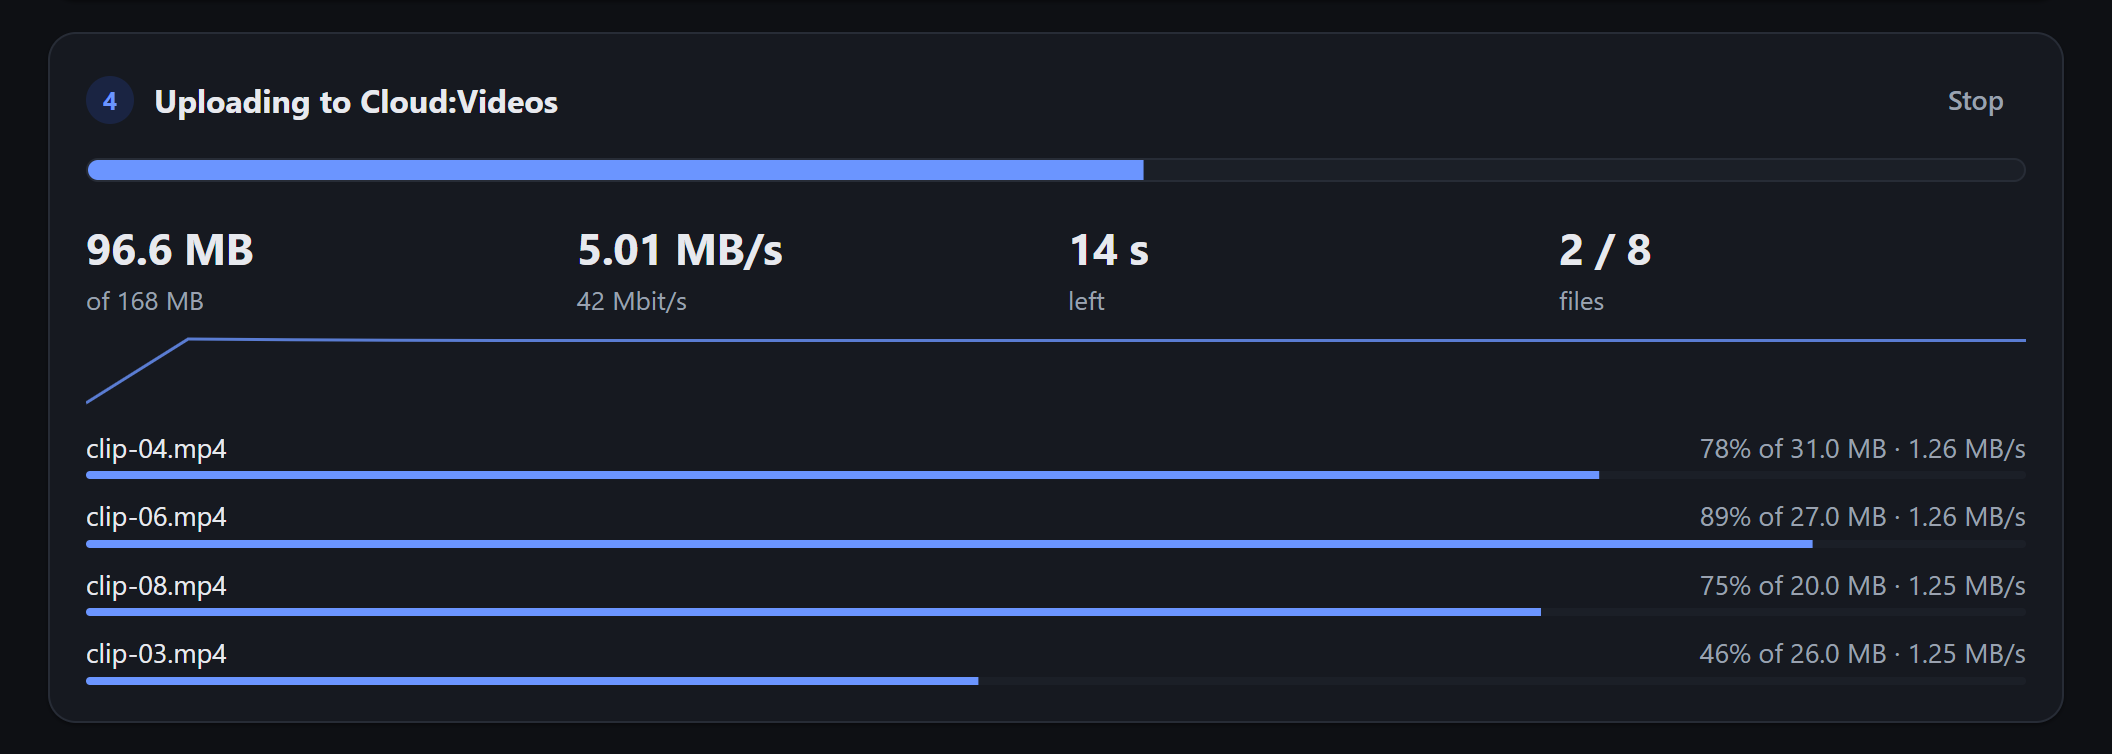
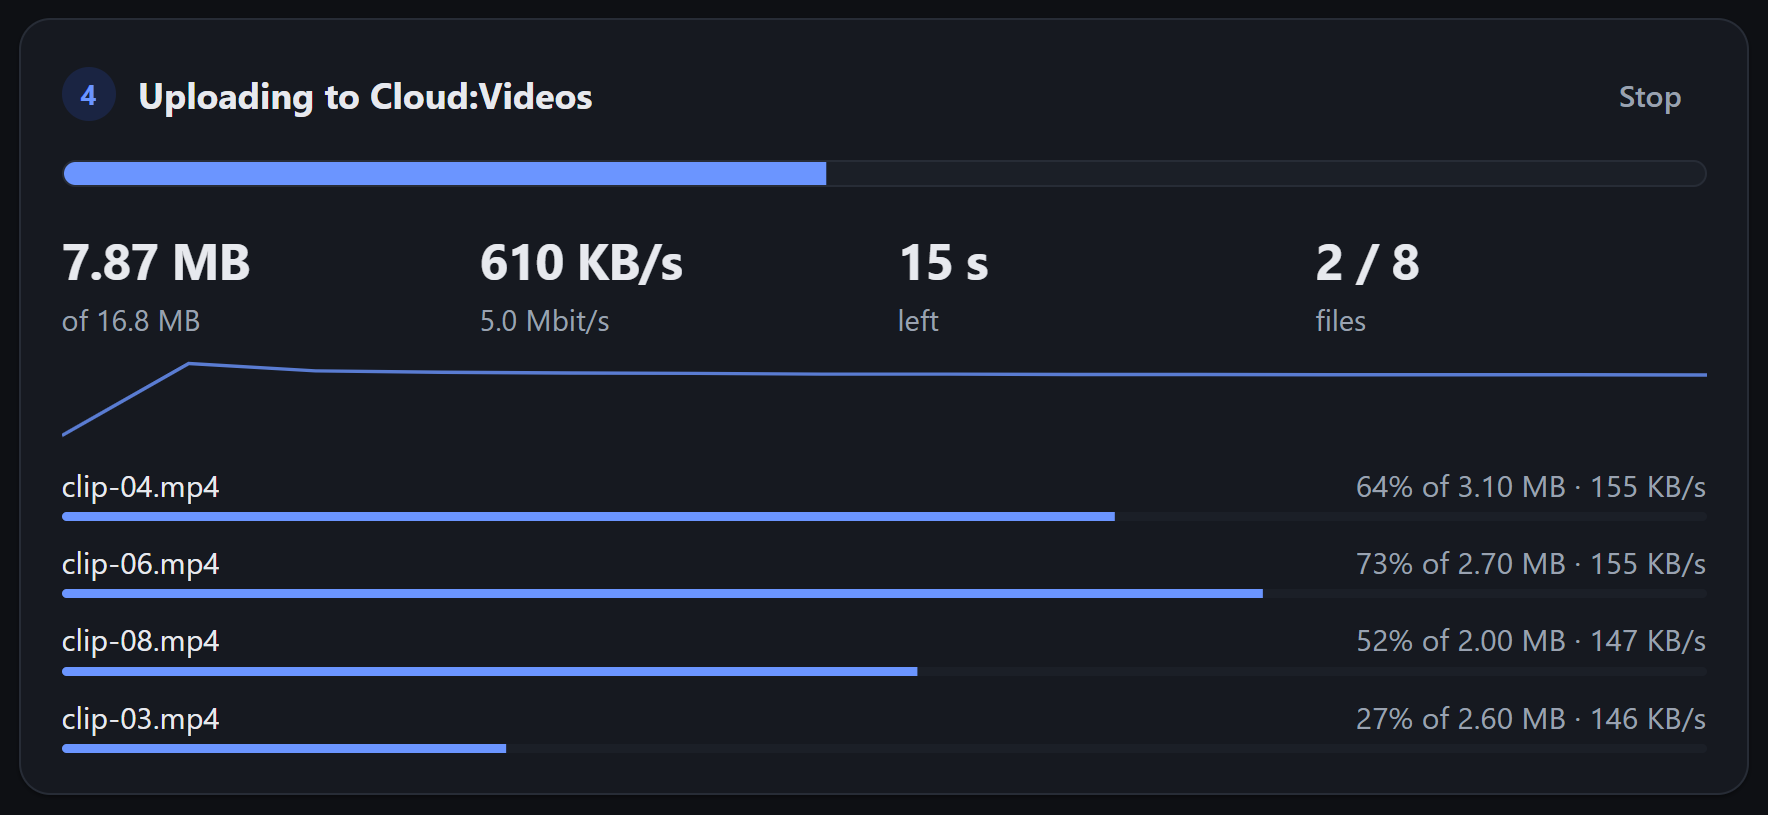
Retake the README screenshots in the Decant desktop app
The old screenshots showed the v1 browser page, still named Offload.
These come from the desktop app itself: the plan, an upload in
progress, the checksum check, and the Free up space dialog with its
Recycle Bin choice, which the README now shows too. They use demo
files and a separate rclone config, so nothing real is in them.

diff --git a/README.md b/README.md
@@ -46,6 +46,8 @@ Details: [THREAT_MODEL.md](THREAT_MODEL.md) · [SECURITY.md](SECURITY.md) · [de
 
    ![The check result: every file matches by MD5 checksum, and Free up space is now offered](docs/check.png)
 
+   ![Free up space: only the files that matched, the Recycle Bin by default with permanent deletion as a separate choice, and a confirmation before anything is removed](docs/free.png)
+
 ## Getting started
 
 **Desktop app.** Download the installer for your system from [Releases](https://github.com/dezdickey/Decant/releases). rclone comes inside it. The installers are not code-signed yet (that is planned for 2.5), so the first time you run one on Windows, a confirmation screen appears: choose **More info**, then **Run anyway**. On macOS, allow it in System Settings under Privacy & Security. Each release lists how to check a download is genuine before you run it.
